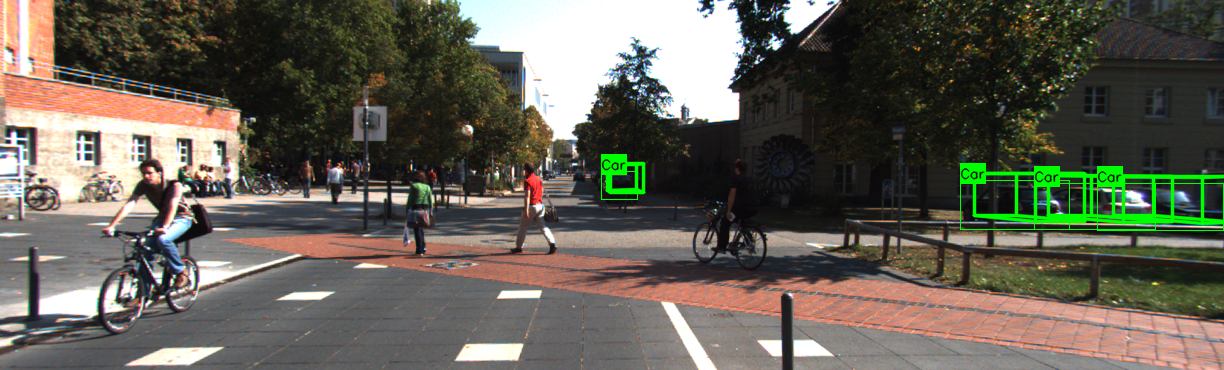
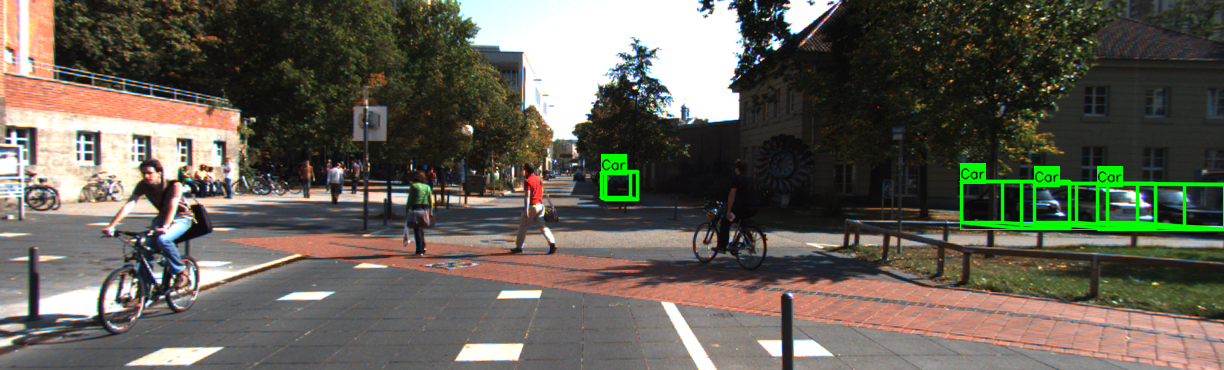
Add per-frame calib_dir support using P2 from calib_gt folder
Agent-Logs-Url: https://github.com/Casit-ARIS-WQL/kitti_vis/sessions/328cd99e-273e-4ea1-a183-d205ca28a5a0

Changed region(s): [[0.7761, 0.4459, 1.0, 0.6243], [0.4657, 0.4162, 0.5278, 0.5649]]

diff --git a/visualize_3d_boxes.py b/visualize_3d_boxes.py
@@ -9,7 +9,10 @@ KITTI 3D目标检测可视化脚本
     # 可视化单张图像
     python visualize_3d_boxes.py --image_id 000145
 
-    # 使用自定义标定文件
+    # 使用逐帧标定目录（默认即为 calib_gt）
+    python visualize_3d_boxes.py --calib_dir calib_gt
+
+    # 使用单个全局标定文件（优先级低于逐帧标定目录）
     python visualize_3d_boxes.py --calib calib/000145.txt
 
     # 指定输入输出目录
@@ -249,7 +252,13 @@ def main():
         "--calib",
         default=None,
         help="KITTI标定文件路径（可选，包含 P2 矩阵）；"
-             "若不提供，则使用内置默认P2矩阵",
+             "优先级低于 --calib_dir，高于内置默认P2矩阵",
+    )
+    parser.add_argument(
+        "--calib_dir",
+        default="calib_gt",
+        help="逐帧标定文件目录（默认: calib_gt）；"
+             "每帧将自动加载 <calib_dir>/<frame_id>.txt 中的 P2 矩阵",
     )
     parser.add_argument(
         "--image_id",
@@ -263,13 +272,11 @@ def main():
     )
     args = parser.parse_args()
 
-    # 确定P2矩阵
+    # 全局P2矩阵（当逐帧标定文件不可用时的后备）
+    global_P2 = None
     if args.calib:
-        P2 = parse_calib_file(args.calib)
-        print(f"使用标定文件中的 P2 矩阵: {args.calib}")
-    else:
-        P2 = DEFAULT_P2
-        print("未提供标定文件，使用内置默认 P2 矩阵（KITTI训练集典型值）")
+        global_P2 = parse_calib_file(args.calib)
+        print(f"使用标定文件中的全局 P2 矩阵: {args.calib}")
 
     os.makedirs(args.output_dir, exist_ok=True)
 
@@ -301,7 +308,19 @@ def main():
             print(f"  [警告] 找不到标注文件: {label_path}，跳过")
             continue
 
-        print(f"处理: {fid}")
+        # 优先使用逐帧标定文件，其次全局标定文件，最后内置默认值
+        frame_calib_path = os.path.join(args.calib_dir, fid + ".txt")
+        if os.path.exists(frame_calib_path):
+            P2 = parse_calib_file(frame_calib_path)
+            calib_source = f"逐帧标定 ({frame_calib_path})"
+        elif global_P2 is not None:
+            P2 = global_P2
+            calib_source = f"全局标定 ({args.calib})"
+        else:
+            P2 = DEFAULT_P2
+            calib_source = "内置默认 P2"
+
+        print(f"处理: {fid}  [{calib_source}]")
         visualize(image_path, label_path, output_path, P2, draw_2d=not args.no_2d)
 
     print("\n全部完成！")
